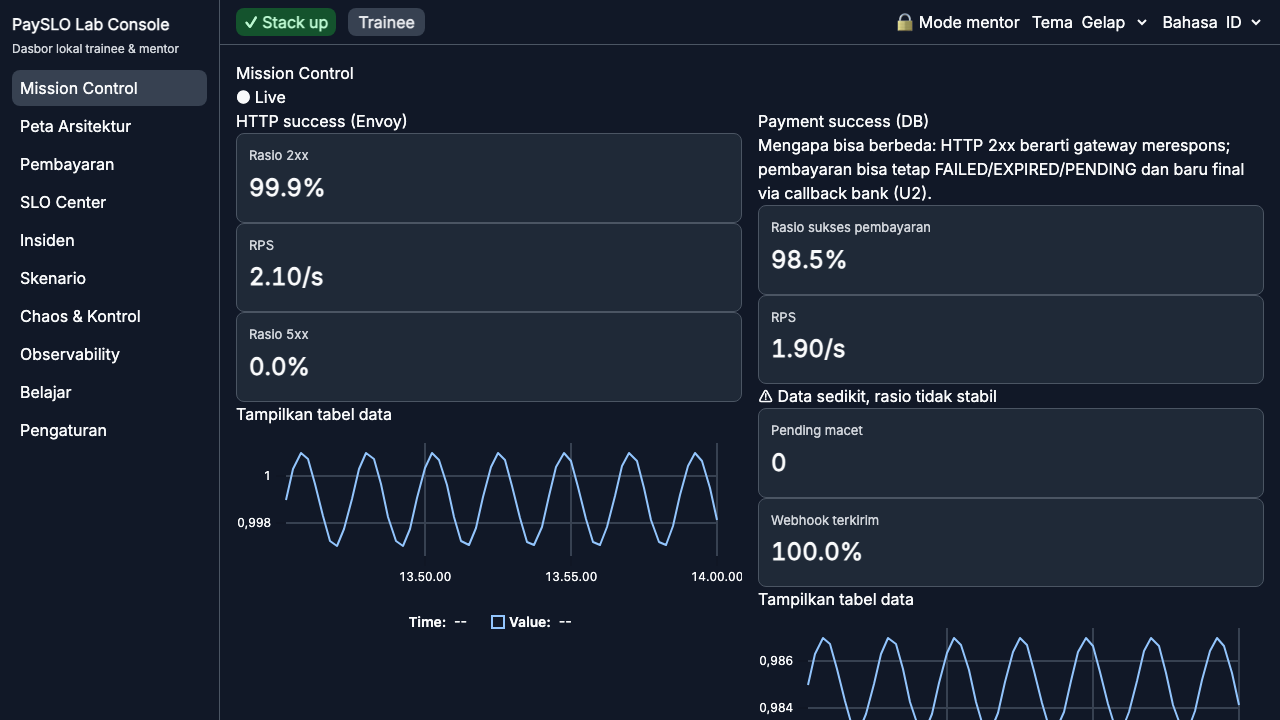
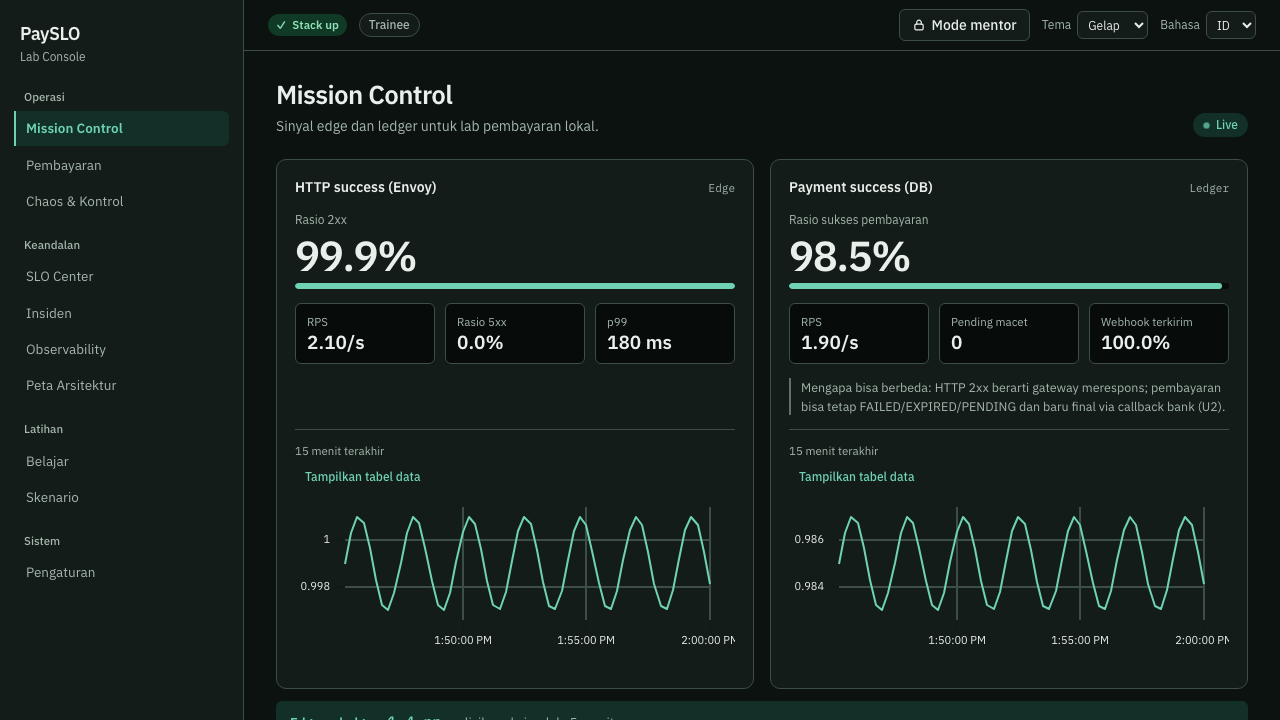
docs(ui): record design decisions and refresh console screenshot
Document the signal-room visual direction, IBM Plex typography, palette, motion decision, and build impact. Replace the README screenshot with the redesigned dark-theme Mission Control.

diff --git a/docs/DECISIONS.md b/docs/DECISIONS.md
@@ -746,3 +746,38 @@ konteks, opsi, keputusan, alasan. Opsi paling sederhana diutamakan.
   endpoint admin; regresi ini tidak tertangkap test sebelumnya karena
   `verify`/`smoke` end-to-end belum dijalankan di CI saat U0–U8.
 - Verifikasi: `cargo test -p lab` hijau; `verify 01` live → `RESULT: PASS`.
+
+### 2026-10-22 — UI: arah visual "signal room / ledger instrument"
+- Konteks: UI console sebelumnya memakai pola dashboard admin generik (kartu
+  SaaS seragam, aksen ungu, Inter). Untuk lab SRE/payment, tampilan harus
+  terasa seperti instrumen operasi: padat, tenang, dan jelas membedakan
+  sinyal HTTP dari ledger pembayaran.
+- Opsi: A) pertahankan dashboard kartu generik dan hanya ganti warna;
+  B) arah "signal room / ledger instrument" dengan readout berpasangan
+  (edge Envoy vs ledger DB), tipografi Plex, dan palet hijau-abu/petrol.
+- Keputusan: B.
+  - Tipografi: **IBM Plex Sans** (UI) + **IBM Plex Mono** (ID, timestamp,
+    sumbu chart). Paket self-hosted `@fontsource/ibm-plex-sans@5.3.0` dan
+    `@fontsource/ibm-plex-mono@5.3.0` (pin eksak, subset latin
+    `latin-400/500/600` dan `latin-400/500`); `@fontsource/inter` dihapus.
+    Lisensi font OFL-1.1 (sudah ada di allowlist `check-licenses.mjs`).
+  - Palet: surface hijau-abu dingin + aksen petrol di tema terang; near-black
+    hijau + aksen mint di tema gelap. Status selalu ikon + teks (tidak
+    mengandalkan warna).
+  - Layout: sidebar berkelompok (`Operasi`, `Keandalan`, `Latihan`,
+    `Sistem`), topbar lengket, disclosure navigasi mobile. Mission Control
+    memakai dua panel readout (HTTP edge vs ledger) + strip gap, bukan grid
+    kartu statistik.
+  - Motion: transisi warna pada tombol/nav dihapus (perubahan warna instan).
+    Ini juga mencegah axe membaca warna antara saat ganti tema (kontras
+    transien) dan mengurangi gerak yang tidak menyampaikan informasi.
+- Alasan: bahasa visual mengikuti domain (settlement + reliability), bukan
+  templat admin; Plex terbaca di angka/tabel dan tersedia offline; token
+  kontras yang sudah diuji tetap dipertahankan.
+- Dampak build: 5 berkas WOFF2 latin ≈ 208 KB di `ui/dist` (aset statis,
+  bukan JS); tidak menambah dependensi runtime/server.
+- Verifikasi: `make ui-test` (prettier, tsc, eslint, vitest), `make ui-e2e`
+  (chromium/firefox/webkit, a11y, keamanan, visual) hijau; baseline visual
+  darwin dan linux diperbarui (linux lewat image
+  `mcr.microsoft.com/playwright:v1.64.1-noble`). Snapshot `/observe`
+  memaksa jalur fallback agar tidak bergantung pada waktu load iframe Grafana.

diff --git a/CHANGELOG.md b/CHANGELOG.md
@@ -40,6 +40,17 @@ Tanggal dalam UTC.
 - `api/openapi.yaml` v0.5.0 (skema pembayaran/kontrol/audit + SLO + insiden)
   + tipe TS di-generate (`openapi-typescript`).
 
+### Changed
+- Lab Console: redesain visual "signal room / ledger instrument" —
+  tipografi IBM Plex Sans/Mono self-hosted, palet hijau-abu/petrol (terang)
+  dan near-black/mint (gelap), sidebar berkelompok, serta Mission Control
+  dengan readout HTTP edge vs ledger pembayaran + strip gap. Status tetap
+  ikon + teks; kontras token diuji. `@fontsource/inter` diganti
+  `@fontsource/ibm-plex-sans` dan `@fontsource/ibm-plex-mono` (5.3.0).
+- Visual regression `/observe` memaksa jalur fallback iframe agar snapshot
+  tidak bergantung pada waktu load Grafana; baseline darwin dan linux
+  diperbarui.
+
 ### Tests
 - Go: kontrak rute vs `openapi.yaml`, uji live `lab_ro` read-only
   (INSERT/UPDATE/DELETE ditolak), keamanan path editor (traversal, absolut,
